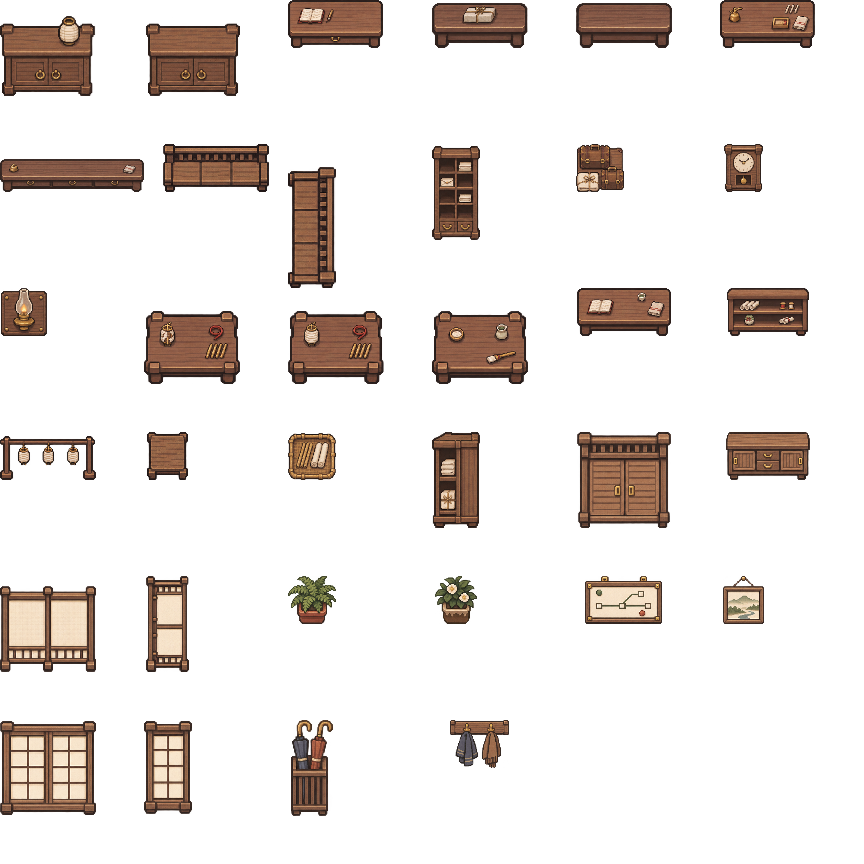
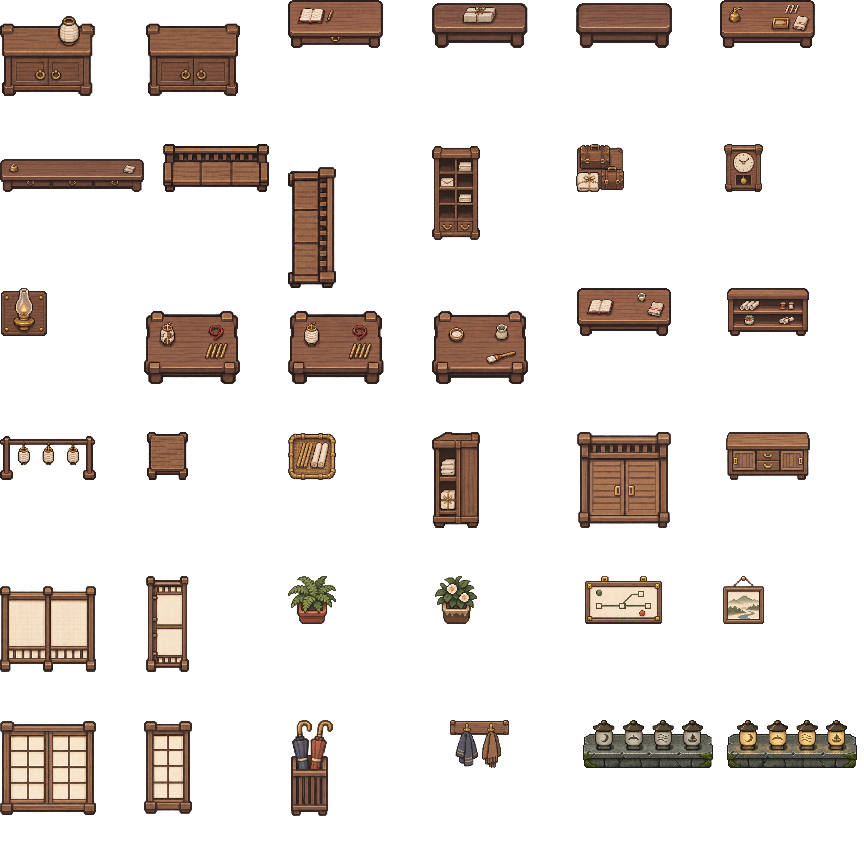
Rework shrine paving and integrate a native grid votive altar

Changed region(s): [[0.6562, 0.8125, 1.0, 0.9062]]

diff --git a/world.js b/world.js
@@ -10,9 +10,10 @@
   const craneImage=new Image();craneImage.src='assets/hanging-crane.png';
   const explorationImage=new Image();explorationImage.src='assets/exploration-props.png';
   const explorationCleared=new Image();explorationCleared.src='assets/exploration-props-cleared.png';
-  const nativeFurniture={};for(const size of [32,48]){const sheet=new Image();sheet.src='assets/interior-native-'+size+'.png';nativeFurniture[size]=sheet;}
+  const nativeFurniture={};for(const size of [32,48]){const sheet=new Image();sheet.src='assets/interior-native-'+size+'.png?v=shrine-20261117';nativeFurniture[size]=sheet;}
   const nativeItems={};for(const size of [12,16]){const sheet=new Image();sheet.src='assets/item-icons-'+size+'.png';nativeItems[size]=sheet;}
   const floorGrains=new Image();floorGrains.src='assets/shrine-library-materials.png';
+  const shrinePaving={};for(const size of [32,48]){const sheet=new Image();sheet.src='assets/shrine-paving-native-'+size+'.png';shrinePaving[size]=sheet;}
   const woodGrain=new Image();woodGrain.src='assets/interior-wood-grain.png';
   const tatamiImage=new Image();tatamiImage.src='assets/tatami-mat.png';let tatamiBounds=null;
   const view = { tile: 48, x: 0, y: 0, width: 1, height: 1, zone: 'station' };
@@ -99,6 +100,12 @@
     const b=tatamiBounds;map.tatami.forEach(mat=>pen.drawImage(tatamiImage,b.x,b.y,b.w,b.h,mat.x*size-originX,mat.y*size-originY,mat.width*size,mat.height*size));
   }
   function texture(pen, tile, x, y, size, material, originX=0,originY=0) {
+    if(material==='shrine-stone'&&shrinePaving[view.tile].naturalWidth){
+      let patterns=contextPatterns.get(pen);if(!patterns){patterns=new Map();contextPatterns.set(pen,patterns);}
+      const key='shrine-paving:'+size+':'+view.tile,source=shrinePaving[view.tile];
+      if(!patterns.has(key)){if(size===view.tile)patterns.set(key,pen.createPattern(source,'repeat'));else{const small=document.createElement('canvas');small.width=small.height=size*8;const p=small.getContext('2d');p.imageSmoothingEnabled=false;p.drawImage(source,0,0,small.width,small.height);patterns.set(key,pen.createPattern(small,'repeat'));}}
+      const pattern=patterns.get(key);pattern.setTransform(new DOMMatrix().translate(-originX,-originY));pen.fillStyle=pattern;pen.fillRect(x,y,size,size);return;
+    }
     if(material==='shrine-stone'||material==='library-wood'||material==='tower-stone'){
       let patterns=contextPatterns.get(pen);if(!patterns){patterns=new Map();contextPatterns.set(pen,patterns);}
       const key=material+':'+size+':'+floorGrains.naturalWidth;
@@ -150,7 +157,7 @@
   function propFrame(prop,solved=[],progress={}){
     if(prop.atlas==='items'){const size=view.tile===32?12:16;return {source:nativeItems[size],sprite:prop.sprite,native:true,nativeItem:true,rect:{x:prop.sprite%4*size,y:Math.floor(prop.sprite/4)*size,w:size,h:size}};}
     if(prop.grid){
-      const art=root.KiriInteriorArt,variant=prop.completedFlag&&progress.flags?.[prop.completedFlag]?1:0,frame=art.sprites[prop.kind][variant];
+      const art=root.KiriInteriorArt,variant=(prop.completedFlag&&progress.flags?.[prop.completedFlag]||prop.completedPuzzle&&solved.includes(prop.completedPuzzle))?1:0,frame=art.sprites[prop.kind][variant];
       return {source:nativeFurniture[view.tile],sprite:variant,native:true,rect:{x:frame.col*art.cell*view.tile,y:frame.row*art.cell*view.tile,w:frame.w*view.tile,h:frame.h*view.tile}};
     }
     const cleared=(prop.clearedBy&&progress.flags?.[prop.clearedBy])||(prop.onlyItemInEcho&&progress.phase!=='echo');
@@ -323,5 +330,5 @@
     map.props.filter(p=>root.KiriCore.inPhase(progress,p.phase)).forEach(p=>{const pose=root.KiriMaps.attachmentPose(zone,p),g=p.grid;layers.push({z:pose?depth(pose.building.frontY-.92,1):depth(root.KiriMaps.propGroundY(zone,p),p.surfaceOn?1:g?0:-1),draw:()=>{const frame=propFrame(p,solved,progress),{source,columns,rows,sprite}=frame;if(!source.complete||!source.naturalWidth)return;if(g){drawGridFrame(pen,frame,g.x*size,g.top*size,g.w*size,g.h*size);return;}if(frame.nativeItem){const extent=p.size*size,surface=root.KiriMaps.surfacePose(zone,p),x=(surface?surface.x+.5:p.x+.5)*size,y=(surface?surface.y+.92:p.y+.92)*size;drawGridFrame(pen,frame,x-extent/2,y-(surface?extent/2:extent),extent,extent);return;}const sw=source.naturalWidth/columns,sh=source.naturalHeight/rows,extent=p.size*size,x=pose?pose.x:p.x+.5,y=pose?pose.bottomY:p.y+.92;pen.drawImage(source,sprite%columns*sw+4,Math.floor(sprite/columns)*sh+4,sw-8,sh-8,x*size-extent*.5,y*size-extent*.985,extent,extent);}});});
     layers.sort((a,b)=>a.z-b.z).forEach(layer=>layer.draw());
   }
-  root.KiriRenderer = { view, resize, draw, project, unproject, thumbnail, depth, assetsReady:()=>[image,foliage,mountedImage,worldProps,stoneGrain,stationKit,craneImage,explorationImage,explorationCleared,...Object.values(nativeFurniture),...Object.values(nativeItems),floorGrains,woodGrain,tatamiImage].every(i=>i.complete&&i.naturalWidth>0)&&!!root.KiriLighting?.assetsReady() };
+  root.KiriRenderer = { view, resize, draw, project, unproject, thumbnail, depth, assetsReady:()=>[image,foliage,mountedImage,worldProps,stoneGrain,stationKit,craneImage,explorationImage,explorationCleared,...Object.values(nativeFurniture),...Object.values(nativeItems),...Object.values(shrinePaving),floorGrains,woodGrain,tatamiImage].every(i=>i.complete&&i.naturalWidth>0)&&!!root.KiriLighting?.assetsReady() };
 })(globalThis);

diff --git a/interior-art.js b/interior-art.js
@@ -1,2 +1,2 @@
 /* Generated by scripts/import-interior-art.cjs. Rectangles include transparent padding. */
-(function(root,factory){if(typeof module==='object'&&module.exports)module.exports=factory();else root.KiriInteriorArt=factory();})(globalThis,()=>({"version":1,"sizes":[32,48],"cell":3,"columns":6,"sprites":{"lampCabinet":[{"col":0,"row":0,"w":2,"h":2},{"col":1,"row":0,"w":2,"h":2}],"dutyDesk":[{"col":2,"row":0,"w":2,"h":1}],"parcelShelf":[{"col":3,"row":0,"w":2,"h":1},{"col":4,"row":0,"w":2,"h":1}],"maintenanceBench":[{"col":5,"row":0,"w":2,"h":1}],"serviceCounter":[{"col":0,"row":1,"w":3,"h":1}],"waitingBench":[{"col":1,"row":1,"w":3,"h":1}],"sideBench":[{"col":2,"row":1,"w":1,"h":3}],"ticketCubby":[{"col":3,"row":1,"w":1,"h":2}],"luggage":[{"col":4,"row":1,"w":1,"h":1}],"wallClock":[{"col":5,"row":1,"w":1,"h":1}],"wallLamp":[{"col":0,"row":2,"w":1,"h":1}],"repairTable":[{"col":1,"row":2,"w":2,"h":2},{"col":2,"row":2,"w":2,"h":2}],"pasteTable":[{"col":3,"row":2,"w":2,"h":2}],"notesTable":[{"col":4,"row":2,"w":2,"h":1}],"paperShelf":[{"col":5,"row":2,"w":2,"h":1}],"dryingRack":[{"col":0,"row":3,"w":2,"h":1}],"stool":[{"col":1,"row":3,"w":1,"h":1}],"stockBasket":[{"col":2,"row":3,"w":1,"h":1}],"sideShelf":[{"col":3,"row":3,"w":1,"h":2}],"wardrobe":[{"col":4,"row":3,"w":2,"h":2}],"lowCupboard":[{"col":5,"row":3,"w":2,"h":1}],"screen":[{"col":0,"row":4,"w":2,"h":2}],"sideScreen":[{"col":1,"row":4,"w":1,"h":2}],"fern":[{"col":2,"row":4,"w":1,"h":1}],"camellia":[{"col":3,"row":4,"w":1,"h":1}],"routeBoard":[{"col":4,"row":4,"w":2,"h":1}],"landscape":[{"col":5,"row":4,"w":1,"h":1}],"shojiWindow":[{"col":0,"row":5,"w":2,"h":2}],"narrowWindow":[{"col":1,"row":5,"w":1,"h":2}],"umbrellaStand":[{"col":2,"row":5,"w":1,"h":2}],"coatRack":[{"col":3,"row":5,"w":2,"h":1}]},"rows":6}));
+(function(root,factory){if(typeof module==='object'&&module.exports)module.exports=factory();else root.KiriInteriorArt=factory();})(globalThis,()=>({"version":1,"sizes":[32,48],"cell":3,"columns":6,"sprites":{"lampCabinet":[{"col":0,"row":0,"w":2,"h":2},{"col":1,"row":0,"w":2,"h":2}],"dutyDesk":[{"col":2,"row":0,"w":2,"h":1}],"parcelShelf":[{"col":3,"row":0,"w":2,"h":1},{"col":4,"row":0,"w":2,"h":1}],"maintenanceBench":[{"col":5,"row":0,"w":2,"h":1}],"serviceCounter":[{"col":0,"row":1,"w":3,"h":1}],"waitingBench":[{"col":1,"row":1,"w":3,"h":1}],"sideBench":[{"col":2,"row":1,"w":1,"h":3}],"ticketCubby":[{"col":3,"row":1,"w":1,"h":2}],"luggage":[{"col":4,"row":1,"w":1,"h":1}],"wallClock":[{"col":5,"row":1,"w":1,"h":1}],"wallLamp":[{"col":0,"row":2,"w":1,"h":1}],"repairTable":[{"col":1,"row":2,"w":2,"h":2},{"col":2,"row":2,"w":2,"h":2}],"pasteTable":[{"col":3,"row":2,"w":2,"h":2}],"notesTable":[{"col":4,"row":2,"w":2,"h":1}],"paperShelf":[{"col":5,"row":2,"w":2,"h":1}],"dryingRack":[{"col":0,"row":3,"w":2,"h":1}],"stool":[{"col":1,"row":3,"w":1,"h":1}],"stockBasket":[{"col":2,"row":3,"w":1,"h":1}],"sideShelf":[{"col":3,"row":3,"w":1,"h":2}],"wardrobe":[{"col":4,"row":3,"w":2,"h":2}],"lowCupboard":[{"col":5,"row":3,"w":2,"h":1}],"screen":[{"col":0,"row":4,"w":2,"h":2}],"sideScreen":[{"col":1,"row":4,"w":1,"h":2}],"fern":[{"col":2,"row":4,"w":1,"h":1}],"camellia":[{"col":3,"row":4,"w":1,"h":1}],"routeBoard":[{"col":4,"row":4,"w":2,"h":1}],"landscape":[{"col":5,"row":4,"w":1,"h":1}],"shojiWindow":[{"col":0,"row":5,"w":2,"h":2}],"narrowWindow":[{"col":1,"row":5,"w":1,"h":2}],"umbrellaStand":[{"col":2,"row":5,"w":1,"h":2}],"coatRack":[{"col":3,"row":5,"w":2,"h":1}],"shrineAltar":[{"col":4,"row":5,"w":3,"h":1},{"col":5,"row":5,"w":3,"h":1}]},"rows":6}));

diff --git a/data.js b/data.js
@@ -27,7 +27,7 @@
       ] },
     shrine: { name: '月见神社', reading: 'TSUKIMI SHRINE', sub: '月落之时，归舟将至。', atlas: [0, 1], spawn: [50, 79], links: ['town'],
       objects: [
-        { id: 'lanterns', name: '四方灯阵', x: 51, y: 46, action: 'puzzle-shrine', mark: 'puzzle' },
+        { id: 'lanterns', name: '归舟祭灯台', x: 51, y: 46, support:'shrine-altar', action: 'puzzle-shrine', mark: 'puzzle' },
         { id: 'mural', name: '被雨洗去的绘马', x: 24, y: 55, action: 'lanternOrder', mark: 'inspect' },
         { id: 'shrine-shiori', name: '栞的身影', label: '回声', x: 69, y: 60, phase: 'echo', character: 1, action: 'shrine-shiori' },
         { id: 'to-town', name: '返回灯见街', x: 50, y: 84, action: 'go-town', mark: 'exit' }

diff --git a/maps.js b/maps.js
@@ -58,7 +58,8 @@
   m.rect(13, 8, 3, 15, 2); m.house(8, 3, 12, 6, 18); m.put(14, 8, 31);
   m.rect(10, 10, 8, 1, 56, true); m.put(13, 10, 2); m.put(14, 10, 2);
   [[9, 13], [18, 13], [9, 18], [18, 18]].forEach(([x, y]) => m.put(x, y, 40, true));
-  m.put(14, 13, 60, true); m.put(6, 12, 43, true); m.put(19, 15, 10, true);
+  furniture.place(m,'shrine-altar','shrineAltar',13,13);
+  m.put(6, 12, 43, true); m.put(19, 15, 10, true);
   [[3, 4], [22, 4], [2, 14], [24, 14], [4, 21], [23, 21]].forEach(([x, y]) => m.put(x, y, 33, true));
   m = create('archive', 26, 22, 4, [13, 18]); m.border(15); m.rect(1, 1, 24, 2, 17, true); m.rect(2, 3, 22, 1, 21, true);
   m.rect(2, 4, 2, 14, 21, true); m.rect(22, 7, 2, 11, 21, true); m.rect(9, 7, 3, 2, 21, true); m.rect(14, 11, 3, 2, 21, true);

diff --git a/furniture.js b/furniture.js
@@ -32,7 +32,8 @@
     shojiWindow:{atlas:'decor',sprite:8,w:2,d:0,h:2,mount:'back-wall',focus:[.5,.6]},
     narrowWindow:{atlas:'decor',sprite:9,w:1,d:0,h:2,mount:'back-wall'},
     umbrellaStand:{atlas:'decor',sprite:10,w:1,d:1,h:2},
-    coatRack:{atlas:'decor',sprite:11,w:2,d:0,h:1,mount:'back-wall'}
+    coatRack:{atlas:'decor',sprite:11,w:2,d:0,h:1,mount:'back-wall'},
+    shrineAltar:{atlas:'shrineAltar',sprite:0,w:3,d:1,h:1,completedPuzzle:'shrine',completedSprite:1,focus:[.5,.42]}
   };
   function place(map,id,kind,x,y){
     const def=catalog[kind];if(!def)throw new Error('Unknown furniture: '+kind);

diff --git a/docs/SHRINE-COURTYARD.md b/docs/SHRINE-COURTYARD.md
@@ -1,0 +1,30 @@
+# 神社庭院与祭灯台调整
+
+日期：2026-11-17。
+
+神社铺地改为同一灰绿色石材：错缝的小石板、细窄苔缝、磨损边缘和细碎矿物纹理。材质按世界坐标连续铺设，不按每个地图格重新拉伸或随机更换整块颜色。原有书库与钟楼地板保持各自材质。
+
+原来单格内的四灯贴片替换为「归舟祭灯台」。低矮石座承托四盏小灯，占地3×1格；桌面144×48像素、手机96×32像素。人物可从三格正面逐格调查，也可绕行。月、山、川、舟的谜题顺序保持，成功后切换同一轮廓的点亮素材。旧存档若落在新增碰撞格，会安全回到本地图入口，保留进度。
+
+## 素材
+
+使用内置 image_gen 生成，原图保留于 assets/shrine-aged-paving.png、assets/shrine-votive-altar.png。导入工具按比例准备32/48像素网格素材；地面分别为256/384像素重复单元，祭灯台并入原生家具图集。运行时按原生尺寸绘制，缩略图单独缩小。点亮前后共用裁切范围，避免状态切换跳动。家具图集附版本参数以更新浏览器缓存。
+
+## 验证
+
+41项规则检查通过，涵盖祭灯台三格碰撞、面向调查、旧存档安全恢复；浏览器神社实地解谜、点亮画面切换、390像素手机原生显示通过。完整流程及四种结局复验见 QA.md。
+
+## 完整生成提示词
+
+### 祭灯台（透明背景，未点亮/已点亮双状态）
+
+```text
+Use case: stylized-concept. Production sprite atlas for a classic orthographic top-down Japanese 2D pixel-art mystery RPG. Transparent background, two equal cells side by side in ONE wide image, each cell contains the SAME low stone votive-lantern altar, identical geometry and registration. Each object silhouette aspect ratio about 3.4:1, broad horizontal and low, camera looking slightly down showing top and short front face, no isometric rotation. A long single weathered grey-green granite plinth supports exactly FOUR tiny traditional cream paper votive lanterns, each with a small dark bronze cap and subtle engraved emblem respectively crescent moon, mountain, river waves, boat. Tiny shallow stone footings; fine edge chips and restrained moss only at plinth corners. LEFT cell four lanterns unlit ivory-grey, RIGHT cell the same four warmly illuminated amber from within, no enormous glow, all base geometry unchanged. Real game scale: plinth footprint three tiles wide by one tile deep, exported at 144 by48 pixels desktop or96 by32 mobile; each lantern roughly14pixels tall, protagonist40pixels tall. So lanterns must look small and low. Muted desaturated antique stone, dark clean pixel outlines, deliberate crisp pixel clusters, consistent overhead-left light, traditional detailed RPG sprite, no blur, no photorealism. Each cell has transparent padding. No background floor, no grass patch, no floating objects, no text, no perspective distortion, no giant lanterns, no chairs, no symbols outside lanterns. Atlas only.
+```
+
+### 连续旧石铺地
+
+```text
+Use case: stylized-concept. Seamlessly tileable SQUARE ground texture for a classic detailed top-down 2D Japanese mystery RPG courtyard. Orthographic straight-down view, continuous old shrine stone pavement filling every edge. Medium-small hand-cut rectangular granite stones in staggered courses, roughly 8 courses vertically and 6 to8 stones across. Slight irregular edge shapes and short joints, slender dark moss-grey mortar, subtle 1-pixel style bevels and tiny edge chips. Restrained fine mineral speckles and gently worn stone centers give tangible rough stone texture rather than flat smooth giant rectangles. Entire surface ONE consistent desaturated warm grey-green family, very subtle stone-to-stone value difference, no contrasting colored patches. Slight moss only within some joints, sparse fine hairline wear. Calm and readable behind character sprites. Designed to reduce crisply to384x384 pixels, each stone roughly45x40 pixels or smaller. Seamless edges left/right/top/bottom; no central focus, no vignette, no lighting gradient, no border, no objects, no foliage clumps, no symbols, no writing, no perspective, no large cracks, no dirt patches, no polished modern tiles, no high contrast checkerboard. Detailed pixel-art material, not photograph.
+```
+

diff --git a/docs/QA.md b/docs/QA.md
@@ -4,7 +4,7 @@
 
 ## 核心规则
 
-`npm test`：40 项检查通过，其中 32 项覆盖核心规则、朝向调查、多格家具、回忆素材、背包道具条件、领取后的光点、隐藏成就、布局及存档恢复，8 项覆盖移动和转向。
+`npm test`：41 项检查通过，其中 33 项覆盖核心规则、朝向调查、多格家具、回忆素材、背包道具条件、领取后的光点、隐藏成就、布局及存档恢复，8 项覆盖移动和转向。
 
 验证了章节先决条件、禁止跳关、错误答案不改变进度、四种机关答案、联动齿轮可解性、回忆重复调查、四种结局条件、存档序列化、损坏存档恢复，以及格子地图中的墙体、书架、水面碰撞。逐一检查了六处区域与两处室内的每个人物、机关、回忆、线索与出口，确保均存在从出生点出发、不穿过障碍的相邻格路径。
 
@@ -129,3 +129,11 @@
 新增规则检查覆盖旧存档及材料已消耗的状态。`node tests/browser.cjs --pickup-glints-only` 实际取走引灯和包裹，确认未领取物件仍亮、已领取物件隐藏，重访空柜、刷新续玩、焦点与减少动态效果下均不会恢复光点。预览为 `preview-cleared-pickups.png`；浏览器错误为 0。
 
 照片改为通过长椅的座面锚点定位，中心位于右侧座板内部。照片图像、闪光和调查格共享同一位置；地图缩略图同步。`--memory-preview` 检查照片四边都在座板安全范围内、闪光中心和照片中心重合，并保存 `preview-photo-detail.png` 对照。
+
+## 神社石铺地与祭灯台
+
+地面使用统一灰绿色旧石纹，按世界坐标连续铺设，加入窄苔缝、磨损与细碎石纹。原单格灯阵更换为占地3×1格的低矮祭灯台，三格均可面向调查；桌面144×48、手机96×32原生像素。未解谜与已解谜共用相同外形，成功后显示点亮状态。
+
+41项规则检查通过，其中33项核心规则、8项移动。新增覆盖三格碰撞、朝向调查、旧存档落在新增占地时安全恢复。`--chapter-preview` 实地解开祭灯台，比较画布确认点亮前后切换，并检查390像素手机画布大小；同时复看书库及钟楼。预览为 `preview-shrine-floor.png`、`preview-shrine-altar.png`、`preview-shrine-mobile.png`。素材与完整生图提示词见 [神社庭院记录](SHRINE-COURTYARD.md)。
+
+本轮完整浏览器通关复验13组通过，四种结局均从界面触发，浏览器错误为0。覆盖新灯台解谜、各章节探索、存读档、移动转向、室内原生像素家具和手机布局；网页构建检查通过。
